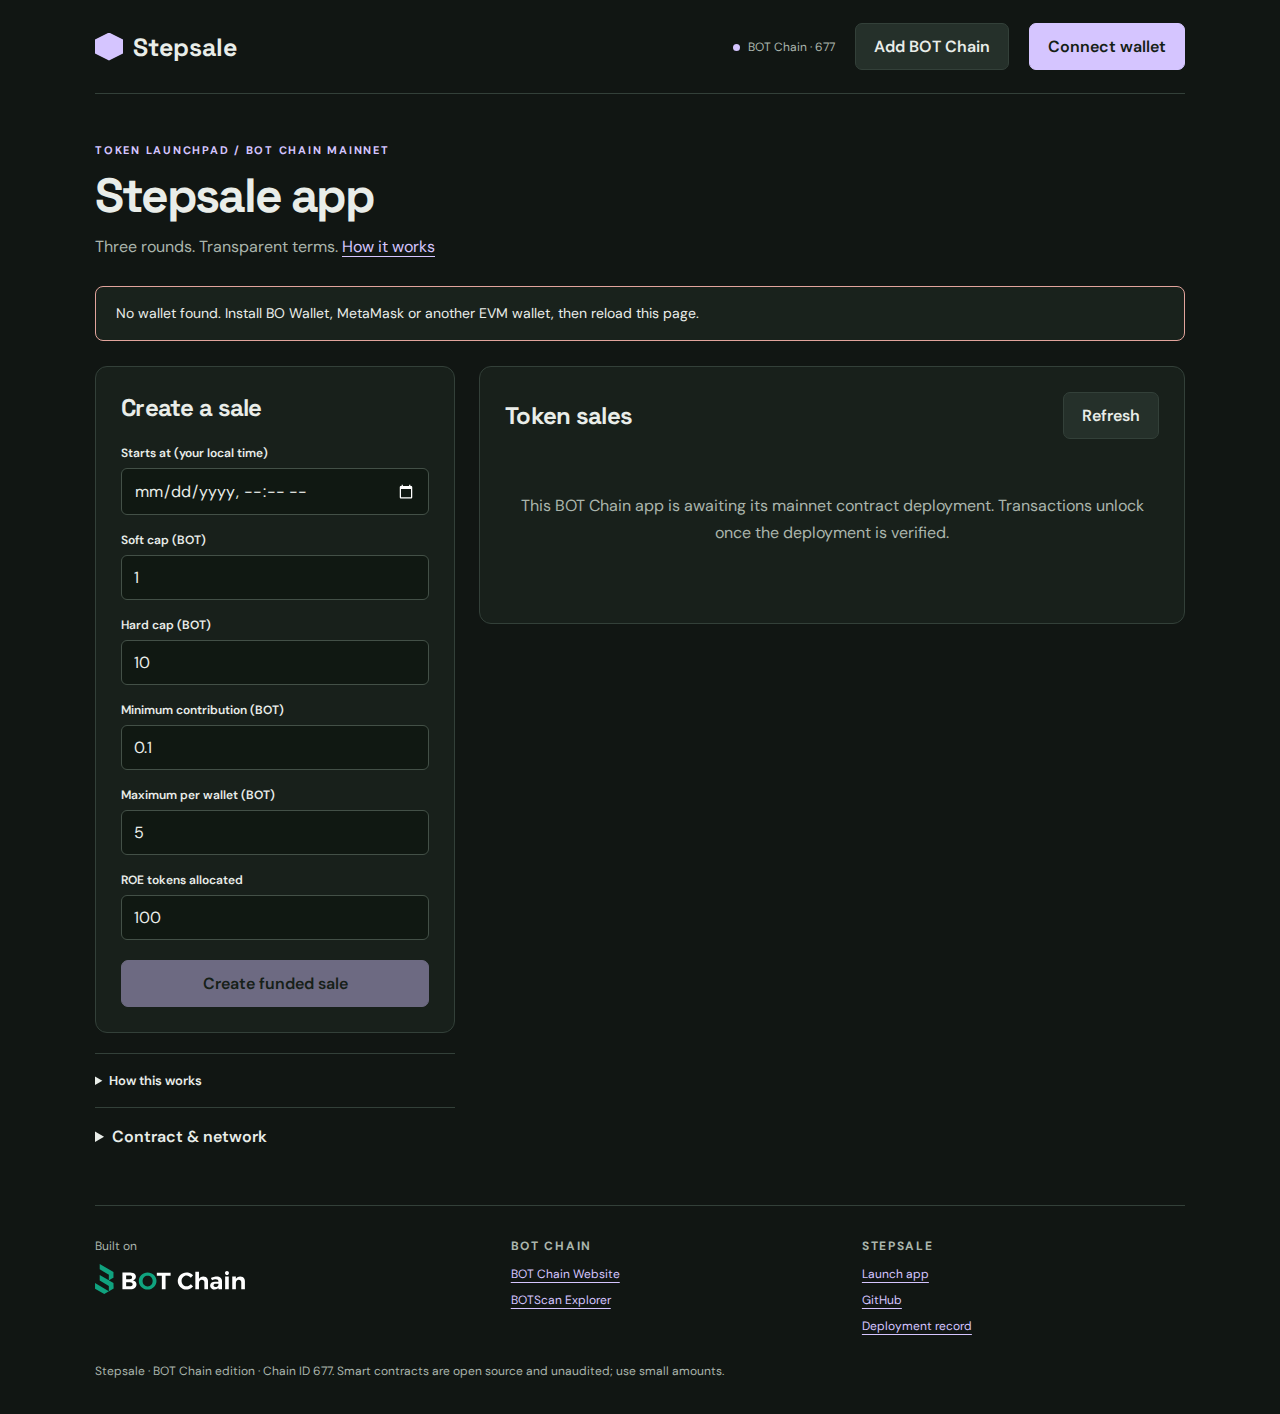
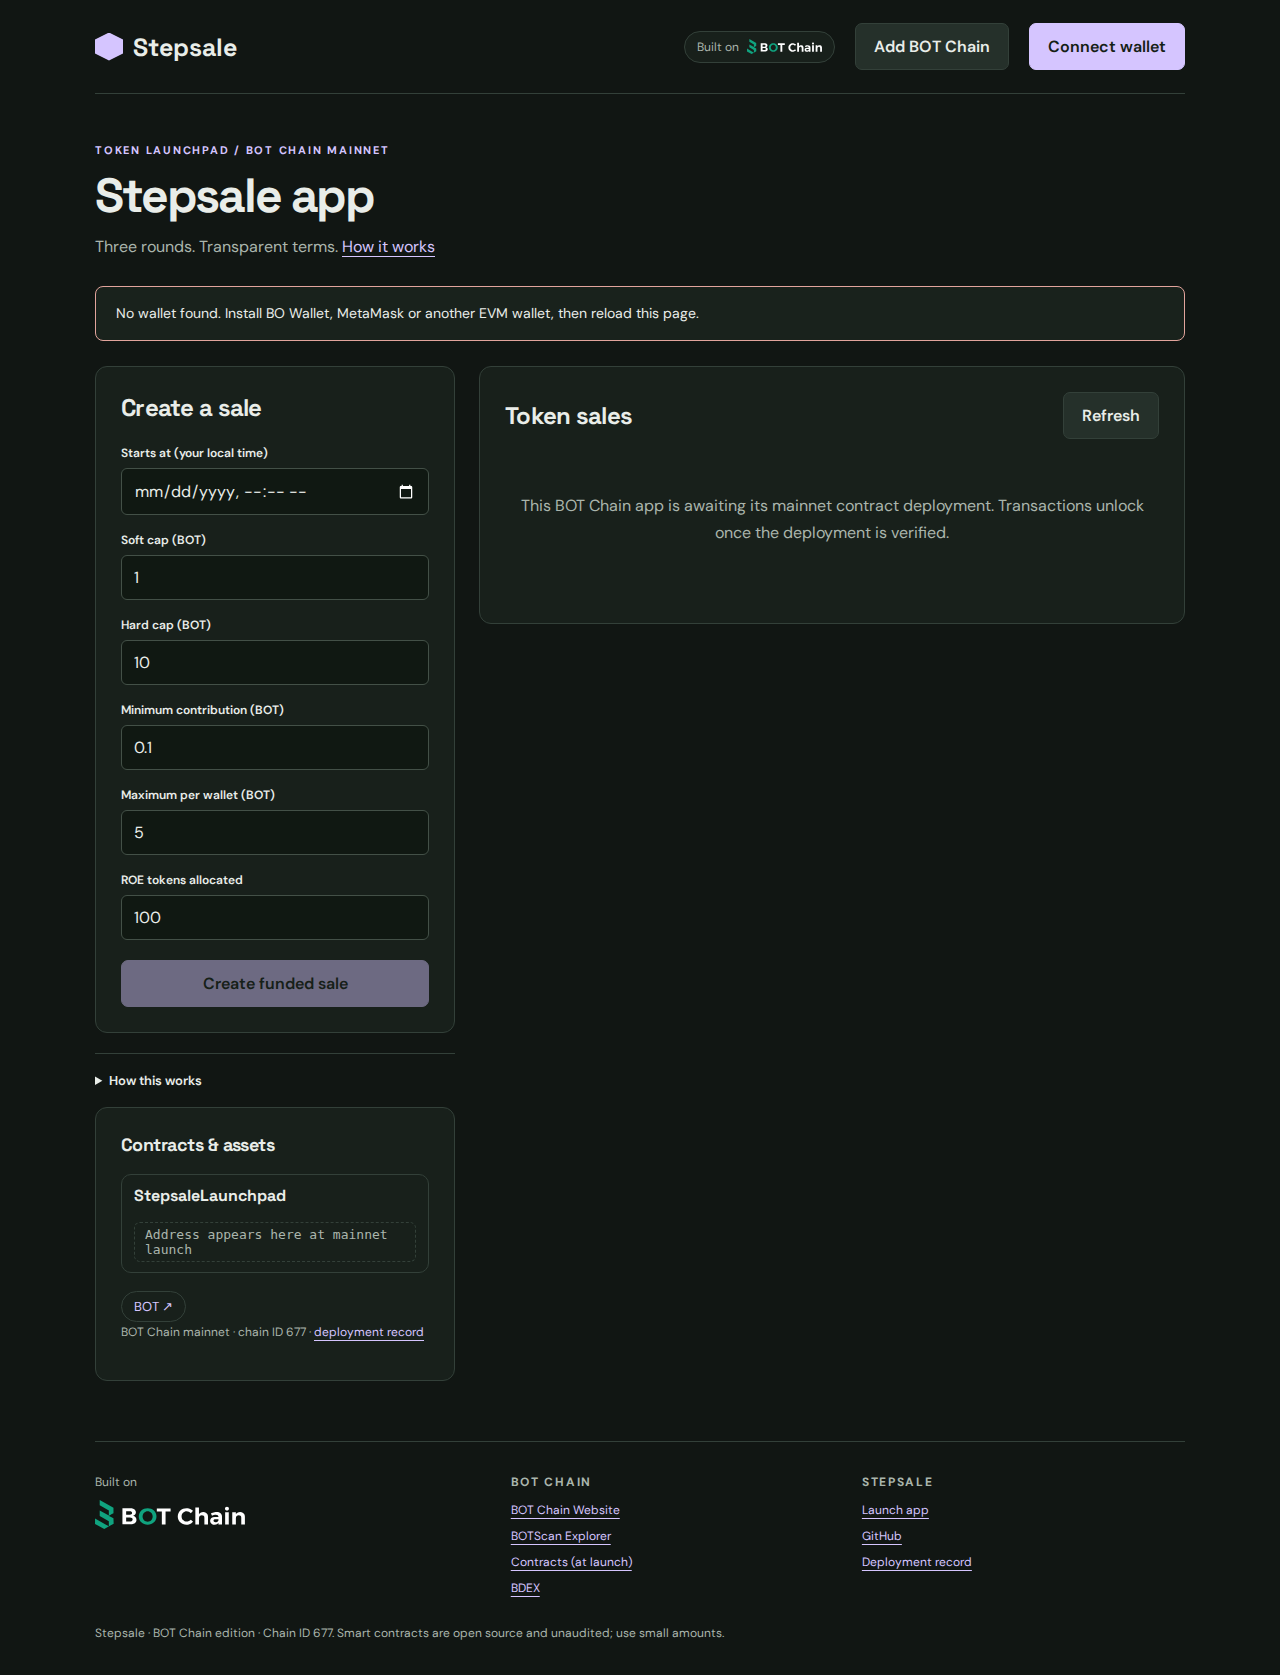
Move sites to Vercel; BOT Chain branding and linked contracts

diff --git a/web/landing.html b/web/landing.html
@@ -1,1 +1,1 @@
-<!doctype html><html lang="en"><head><meta charset="UTF-8"><meta name="viewport" content="width=device-width,initial-scale=1"><meta name="theme-color" content="#111613"><title>__NAME__ · BOT Chain</title><meta name="description" content="__DESCRIPTION__"><meta property="og:title" content="__NAME__ · BOT Chain"><meta property="og:description" content="__DESCRIPTION__"><meta property="og:type" content="website"><meta name="twitter:card" content="summary"><link rel="icon" href="/icon.svg" type="image/svg+xml"><link rel="stylesheet" href="/style.css"></head><body><a class="skip" href="#main">Skip to content</a><div class="shell"><header><a class="brand" href="/"><span class="mark" aria-hidden="true"></span>__NAME__</a><nav class="site-nav" aria-label="Page"><a href="#how">How it works</a><a href="#features">Features</a><a href="#faq">FAQ</a><a href="__REPO_URL__" target="_blank" rel="noopener noreferrer">GitHub</a></nav><div class="header-actions"><a class="button primary" href="/app/">Launch app</a></div></header><main id="main"><section class="hero"><div><span class="eyebrow">__EYEBROW__ / BOT CHAIN</span><h1>__LINE__</h1><p>__DESCRIPTION__</p><div class="cta-row"><a class="button primary" href="/app/">Launch app</a><a class="button" href="__REPO_URL__" target="_blank" rel="noopener noreferrer">View source</a></div></div><div class="hero-art" aria-hidden="true"><div class="art-grid"><span>01</span><span>02</span><span>03</span><span>04</span><span>__SYMBOL__</span><span>06</span><span>07</span><span>08</span><span>09</span></div></div></section>__LAUNCH__<section id="how" class="band"><span class="eyebrow">How it works</span><h2>Three steps, all onchain</h2><ol class="steps">__STEPS__</ol></section><section id="features" class="band"><span class="eyebrow">Features</span><h2>Why __NAME__</h2><div class="features">__FEATURES__</div></section><section id="onchain" class="band"><span class="eyebrow">Onchain</span><h2>Verify everything</h2><dl class="facts">__FACTS__</dl></section><section id="faq" class="band"><span class="eyebrow">FAQ</span><h2>Questions</h2><div class="faq">__FAQ__</div></section><section class="cta-band"><h2>__LINE__</h2><p>Connect BO Wallet, MetaMask or any EVM wallet on BOT Chain mainnet.</p><a class="button primary" href="/app/">Launch __NAME__</a></section></main>__FOOTER__</div></body></html>
+<!doctype html><html lang="en"><head><meta charset="UTF-8"><meta name="viewport" content="width=device-width,initial-scale=1"><meta name="theme-color" content="#111613"><title>__NAME__ · BOT Chain</title><meta name="description" content="__DESCRIPTION__"><meta property="og:title" content="__NAME__ · BOT Chain"><meta property="og:description" content="__DESCRIPTION__"><meta property="og:type" content="website"><meta name="twitter:card" content="summary"><link rel="icon" href="/icon.svg" type="image/svg+xml"><link rel="stylesheet" href="/style.css"></head><body><a class="skip" href="#main">Skip to content</a><div class="shell"><header><a class="brand" href="/"><span class="mark" aria-hidden="true"></span>__NAME__</a><nav class="site-nav" aria-label="Page"><a href="#how">How it works</a><a href="#features">Features</a><a href="#contracts">Contracts</a><a href="#faq">FAQ</a><a href="__REPO_URL__" target="_blank" rel="noopener noreferrer">GitHub</a></nav><div class="header-actions"><a class="chain-badge" href="https://www.botchain.ai/" target="_blank" rel="noopener noreferrer" aria-label="Built on BOT Chain"><span>Built on</span><img src="/botchain.svg" alt="BOT Chain" width="96" height="19"></a><a class="button primary" href="/app/">Launch app</a></div></header><main id="main"><section class="hero"><div><span class="eyebrow">__EYEBROW__ / BOT CHAIN</span><h1>__LINE__</h1><p>__DESCRIPTION__</p><div class="cta-row"><a class="button primary" href="/app/">Launch app</a><a class="button" href="__REPO_URL__" target="_blank" rel="noopener noreferrer">View source</a></div></div><div class="hero-art" aria-hidden="true"><div class="art-grid"><span>01</span><span>02</span><span>03</span><span>04</span><span>__SYMBOL__</span><span>06</span><span>07</span><span>08</span><span>09</span></div></div></section>__LAUNCH__<section id="how" class="band"><span class="eyebrow">How it works</span><h2>Three steps, all onchain</h2><ol class="steps">__STEPS__</ol></section><section id="features" class="band"><span class="eyebrow">Features</span><h2>Why __NAME__</h2><div class="features">__FEATURES__</div></section><section id="onchain" class="band"><span class="eyebrow">Onchain</span><h2>Verify everything</h2><dl class="facts">__FACTS__</dl></section><section id="contracts" class="band"><span class="eyebrow">Contracts &amp; BOT Chain assets</span><h2>Every address, on BOTScan</h2><p>Each link opens the contract or token on BOTScan, the BOT Chain explorer.</p><div class="contracts">__CONTRACTS__</div><h3 class="assets-title">BOT Chain assets used</h3><ul class="assets">__ASSETS__</ul></section><section id="faq" class="band"><span class="eyebrow">FAQ</span><h2>Questions</h2><div class="faq">__FAQ__</div></section><section class="cta-band"><h2>__LINE__</h2><p>Connect BO Wallet, MetaMask or any EVM wallet on BOT Chain mainnet.</p><a class="button primary" href="/app/">Launch __NAME__</a></section></main>__FOOTER__</div></body></html>

diff --git a/web/app.html b/web/app.html
@@ -1,1 +1,1 @@
-<!doctype html><html lang="en"><head><meta charset="UTF-8"><meta name="viewport" content="width=device-width,initial-scale=1"><meta name="theme-color" content="#111613"><title>__NAME__ App · BOT Chain</title><meta name="description" content="__DESCRIPTION__"><link rel="icon" href="/icon.svg" type="image/svg+xml"><link rel="stylesheet" href="/style.css"></head><body><a class="skip" href="#main">Skip to app</a><div class="shell"><header><a class="brand" href="/"><span class="mark" aria-hidden="true"></span>__NAME__</a><div class="header-actions"><span class="network">BOT Chain · 677</span><button id="add-chain" type="button">Add BOT Chain</button><button id="connect" type="button" class="primary">Connect wallet</button></div></header><main id="main"><section class="app-intro"><span class="eyebrow">__EYEBROW__ / BOT CHAIN MAINNET</span><h1>__NAME__ app</h1><p>__LINE__ <a href="/">How it works</a></p></section><div id="status" class="status" role="status" aria-live="polite">Checking deployment…</div><div id="workspace" class="layout"><aside><div id="controls" class="panel"></div><details class="rules"><summary>How this works</summary><div id="rules"></div></details><details><summary>Contract &amp; network</summary><div id="contract" class="record"></div></details></aside><section class="panel"><div class="section-head"><h2 id="list-title">Activity</h2><button id="refresh" type="button">Refresh</button></div><div id="records" aria-live="polite"><p class="empty">Loading onchain data…</p></div></section></div></main>__FOOTER__</div><dialog id="wallets" aria-labelledby="wallets-title"><form method="dialog"><h2 id="wallets-title">Choose a wallet</h2><p class="tiny">Any EVM wallet works on BOT Chain, including BO Wallet and MetaMask.</p><div id="wallet-list" class="wallet-list"></div><button value="cancel">Cancel</button></form></dialog><script type="module" src="/app.js"></script></body></html>
+<!doctype html><html lang="en"><head><meta charset="UTF-8"><meta name="viewport" content="width=device-width,initial-scale=1"><meta name="theme-color" content="#111613"><title>__NAME__ App · BOT Chain</title><meta name="description" content="__DESCRIPTION__"><link rel="icon" href="/icon.svg" type="image/svg+xml"><link rel="stylesheet" href="/style.css"></head><body><a class="skip" href="#main">Skip to app</a><div class="shell"><header><a class="brand" href="/"><span class="mark" aria-hidden="true"></span>__NAME__</a><div class="header-actions"><a class="chain-badge compact" href="https://www.botchain.ai/" target="_blank" rel="noopener noreferrer" aria-label="Built on BOT Chain"><span>Built on</span><img src="/botchain.svg" alt="BOT Chain" width="96" height="19"></a><button id="add-chain" type="button">Add BOT Chain</button><button id="connect" type="button" class="primary">Connect wallet</button></div></header><main id="main"><section class="app-intro"><span class="eyebrow">__EYEBROW__ / BOT CHAIN MAINNET</span><h1>__NAME__ app</h1><p>__LINE__ <a href="/">How it works</a></p></section><div id="status" class="status" role="status" aria-live="polite">Checking deployment…</div><div id="workspace" class="layout"><aside><div id="controls" class="panel"></div><details class="rules"><summary>How this works</summary><div id="rules"></div></details><div class="panel contracts-panel"><h2>Contracts &amp; assets</h2><div class="contracts">__CONTRACTS__</div><ul class="assets">__ASSETS__</ul><p class="tiny">BOT Chain mainnet · chain ID 677 · <a href="/deployment.json">deployment record</a></p></div></aside><section class="panel"><div class="section-head"><h2 id="list-title">Activity</h2><button id="refresh" type="button">Refresh</button></div><div id="records" aria-live="polite"><p class="empty">Loading onchain data…</p></div></section></div></main>__FOOTER__</div><dialog id="wallets" aria-labelledby="wallets-title"><form method="dialog"><h2 id="wallets-title">Choose a wallet</h2><p class="tiny">Any EVM wallet works on BOT Chain, including BO Wallet and MetaMask.</p><div id="wallet-list" class="wallet-list"></div><button value="cancel">Cancel</button></form></dialog><script type="module" src="/app.js"></script></body></html>

diff --git a/web/products/stepsale.js b/web/products/stepsale.js
@@ -1,4 +1,4 @@
-import {$,state,fmt,link,button,field,form,amount,read,tx,mine,chainTime,start} from '../core.js';
+import {$,state,fmt,link,button,field,form,amount,read,tx,mine,chainTime,asset,start} from '../core.js';
 function controls(){
  $('list-title').textContent='Token sales';
  $('controls').innerHTML='<h2>Create a sale</h2>'+form('sale',field('start','Starts at (your local time)','','datetime-local')+field('soft','Soft cap (BOT)','1','text','inputmode="decimal"')+field('hard','Hard cap (BOT)','10','text','inputmode="decimal"')+field('min','Minimum contribution (BOT)','0.1','text','inputmode="decimal"')+field('max','Maximum per wallet (BOT)','5','text','inputmode="decimal"')+field('allocation','ROE tokens allocated','100','text','inputmode="decimal"'),'Create funded sale',async f=>tx('StepsaleLaunchpad','create',[BigInt(Math.floor(new Date(f.start).getTime()/1000)),amount(f.soft),amount(f.hard),amount(f.min),amount(f.max),amount(f.allocation)]));
@@ -7,7 +7,7 @@ function controls(){
 async function render(){
  const count=Number(await read('StepsaleLaunchpad','saleCount'));const nowMs=await chainTime()*1000;let html='';
  for(let id=count-1;id>=Math.max(0,count-20);id--){const addr=await read('StepsaleLaunchpad','sales',[BigInt(id)]);const get=(fn,args=[])=>read('ROEPresale',fn,args,addr);const [raised,soft,hard,current,claimStart,token]=await Promise.all([get('totalRaised'),get('softCap'),get('hardCap'),get('getPresaleStatus'),get('claimStart'),read('StepsaleLaunchpad','saleToken',[addr])]);
-  html+=`<article class="item"><h3>ROE sale #${id+1}</h3><p>${link(token,'Token contract')} · ${link(addr,'Sale contract')}</p><div class="amount">${fmt(raised)} / ${fmt(hard)} BOT</div><p class="tiny">Soft cap ${fmt(soft)} BOT · ${current[0]?`Round ${current[1]+1} active`:'Sale not active'}<br>Claims / refunds: ${new Date(Number(claimStart)*1000).toLocaleString()}</p>`;
+  html+=`<article class="item"><h3>ROE sale #${id+1}</h3><p>${link(token,'Token contract')} · ${link(addr,'Sale contract')}</p><div class="amount">${fmt(raised)} / ${fmt(hard)} ${asset('BOT')}</div><p class="tiny">Soft cap ${fmt(soft)} BOT · ${current[0]?`Round ${current[1]+1} active`:'Sale not active'}<br>Claims / refunds: ${new Date(Number(claimStart)*1000).toLocaleString()}</p>`;
   if(current[0])html+=form(`buy-${id}`,field(`buy-amount-${id}`,'Contribution (BOT)','0.1','text','inputmode="decimal"'),'Buy ROE',f=>tx('ROEPresale','buyTokens',[],amount(f[`buy-amount-${id}`]),addr));
   if(state.account&&nowMs>=Number(claimStart)*1000){const contributed=await get('contributions',[state.account]),claimed=await get('claimed',[state.account]);if(contributed>0n&&!claimed)html+=button(raised>=soft?'Claim tokens':'Refund contribution',()=>tx('ROEPresale',raised>=soft?'claim':'refund',[],0n,addr),true);if(mine(await get('owner'))&&raised>=soft)html+=button('Withdraw raised BOT',()=>tx('ROEPresale','withdrawFunds',[state.account],0n,addr));}
   html+='</article>';

diff --git a/web/core.js b/web/core.js
@@ -72,6 +72,8 @@ export const tx=(name,fn,args=[],value=0n,addr=config.contracts[name])=>transact
 export async function approve(token,spender,n){await wallet();const allowed=await client.readContract({address:token,abi:tokenAbi,functionName:'allowance',args:[state.account,spender]});if(allowed<n){if(allowed>0n)await transact(tokenAbi,token,'approve',[spender,0n]);await transact(tokenAbi,token,'approve',[spender,n]);}}
 export async function approveNFT(token,id,spender){await wallet();if((await client.readContract({address:token,abi:tokenAbi,functionName:'getApproved',args:[id]})).toLowerCase()!==spender.toLowerCase())await transact(nftAbi,token,'approve',[spender,id]);}
 export const wrapForms=()=>details('Wrap or unwrap BOT',form('wrap',field('wrap-amount','BOT to wrap','0.01','text','inputmode="decimal"'),'Wrap BOT',async f=>transact(tokenAbi,config.infrastructure.WBOT,'deposit',[],amount(f['wrap-amount'])))+form('unwrap',field('unwrap-amount','WBOT to unwrap','0.01','text','inputmode="decimal"'),'Unwrap WBOT',async f=>transact(tokenAbi,config.infrastructure.WBOT,'withdraw',[amount(f['unwrap-amount'])])));
+/** A BOT Chain asset symbol, linked to its BOTScan token page (BOT links to BOT Chain). Unknown symbols stay plain text. */
+export const asset=(symbol,address)=>{const k=String(symbol).toUpperCase(),a=config.assetLinks?.[k];const href=a?.href||(address?`https://scan.botchain.ai/token/${address}`:null);return href?`<a class="asset" href="${esc(href)}" target="_blank" rel="noopener noreferrer" title="${esc(a?.name||symbol)} on BOT Chain">${esc(symbol)}</a>`:esc(symbol);};
 export const mine=a=>!!state.account&&a?.toLowerCase()===state.account.toLowerCase();
 
 let product;
@@ -95,6 +97,5 @@ export function start(p){
  document.addEventListener('submit',e=>{if(!e.target.dataset.form)return;e.preventDefault();const f=e.target;run(()=>actions.get(f.dataset.form)(Object.fromEntries(new FormData(f))));});
  $('connect').onclick=()=>run(connect);$('add-chain').onclick=()=>run(addChain);$('refresh').onclick=()=>run(state.verified?refresh:boot);
  product.controls();
- $('contract').innerHTML=`<p>BOT Chain mainnet · Chain ID 677</p><p>${config.contracts[config.contract]?link(config.contracts[config.contract],'View app contract on BOTScan'):'Contract deployment pending'}</p><p><a href="/deployment.json">Public deployment record</a></p>`;
  boot();
 }

diff --git a/web/style.css b/web/style.css
@@ -50,3 +50,21 @@ dialog form>button{width:100%}
 .weights legend{font-size:12px;font-weight:600;padding:0 6px}
 .tiny.error{color:#e2a49c}
 .holdings{margin:6px 0 10px}
+
+.chain-badge{display:inline-flex;align-items:center;gap:8px;text-decoration:none;color:var(--muted);font-size:12px;border:1px solid var(--line);border-radius:999px;padding:7px 12px;background:#18201b}
+.chain-badge:hover{border-color:#10A37F}
+.chain-badge img{height:15px;width:auto}
+.contracts{display:grid;gap:10px;margin:18px 0}
+.contract{display:flex;justify-content:space-between;align-items:center;gap:16px;flex-wrap:wrap;border:1px solid var(--line);border-radius:10px;padding:14px 18px;background:#18201b}
+.contract strong{font-family:'Space Grotesk',sans-serif}
+.contract a,.contract .pending{font-family:ui-monospace,SFMono-Regular,Menlo,monospace;font-size:13px;overflow-wrap:anywhere}
+.contract .pending{color:var(--muted);border:1px dashed var(--line);border-radius:6px;padding:4px 10px}
+.assets-title{margin-top:26px}
+.assets{list-style:none;padding:0;margin:10px 0 0;display:flex;flex-wrap:wrap;gap:8px}
+.assets a{display:inline-flex;gap:6px;align-items:center;border:1px solid var(--line);border-radius:999px;padding:6px 12px;font-size:13px;text-decoration:none}
+.assets a:hover{border-color:var(--accent)}
+.contracts-panel h2{font-size:18px;margin-bottom:6px}
+.contracts-panel .contract{padding:10px 12px}
+a.asset{text-decoration-thickness:1px}
+@media(max-width:760px){.chain-badge span{display:none}.chain-badge.compact{display:none}}
+@media(max-width:480px){header{gap:10px}.header-actions{gap:6px}.chain-badge{padding:6px 8px}.chain-badge img{height:12px}.header-actions a.button{padding:9px 11px;font-size:13px}.brand{font-size:19px;gap:8px}.mark{width:22px;height:22px}}

diff --git a/README.md b/README.md
@@ -4,7 +4,7 @@
 
 **Status:** contracts are tested on a BOT Chain mainnet fork; the mainnet deployment is pending.
 
-- Website and app: https://stepsale-botchain.davidopuene8.workers.dev (app at [`/app/`](https://stepsale-botchain.davidopuene8.workers.dev/app/))
+- Website and app: https://stepsale.vercel.app (app at [`/app/`](https://stepsale.vercel.app/app/))
 - Network: BOT Chain mainnet, chain ID 677 · [BOT Chain](https://www.botchain.ai/) · [BOTScan](https://scan.botchain.ai/)
 
 ![Stepsale landing page](docs/stepsale-landing-1280.png)
@@ -61,7 +61,7 @@ node scripts/deploy.mjs && node scripts/fork-check.mjs
 
 ### Deploy
 
-`scripts/deploy.mjs` reads the deployer key from `BOT_SIGNER_FILE` (default `~/.config/botchain-wave1/deployer.env`, never committed), refuses to broadcast on mainnet without `BOT_MAX_GAS_BOT`, and journals every transaction to `deployments/mainnet.json` so it can resume. `python3 scripts/publish.py` publishes the site with a one-hour, Workers-only Cloudflare token and revokes it afterwards.
+`scripts/deploy.mjs` reads the deployer key from `BOT_SIGNER_FILE` (default `~/.config/botchain-wave1/deployer.env`, never committed), refuses to broadcast on mainnet without `BOT_MAX_GAS_BOT`, and journals every transaction to `deployments/mainnet.json` so it can resume. `npm run publish` deploys the built site to Vercel as a static production deployment.
 
 ## License
 
